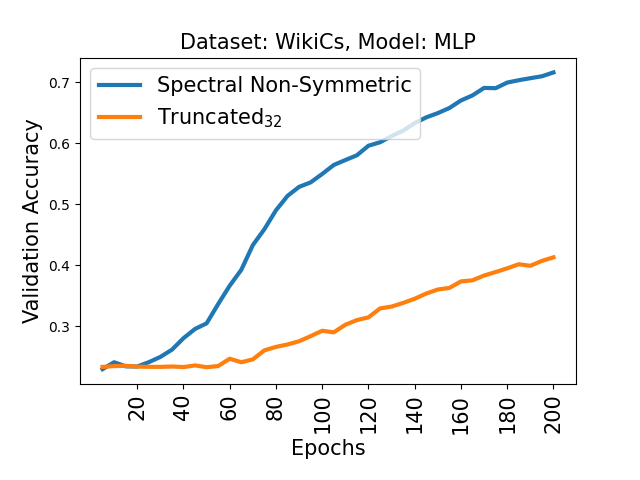
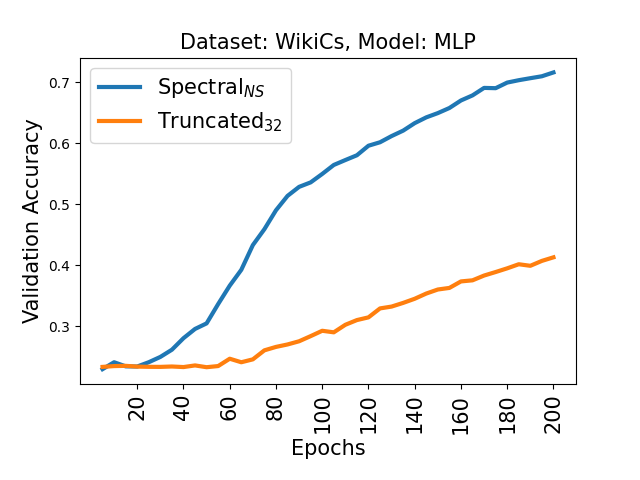
Fixed names of legends in graphs

Changed region(s): [[0.1562, 0.1562, 0.6562, 0.3125], [0.5938, 0.25, 0.6562, 0.3125], [0.1562, 0.1562, 0.2188, 0.1875]]

diff --git a/create_SimpleGraphs_truncated_spec_MLP.py b/create_SimpleGraphs_truncated_spec_MLP.py
@@ -12,7 +12,7 @@ different_model_name = "MLP"
 
 embedding_list = ["non-symmetric","truncated-spectral"]
 
-different_embed_names = ["Spectral Non-Symmetric", "Truncated$_{32}$"]
+different_embed_names = ["Spectral$_{NS}$", "Truncated$_{32}$"]
 
 combined_name = "truncated_spec"
 
